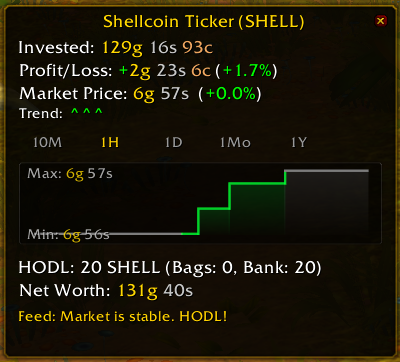
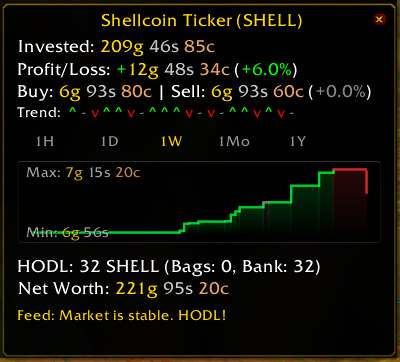
fix: scale graph timeline to latest sync time in live mode to avoid empty space
refactor: graph rendering with new candle tooltip assets.

diff --git a/README.md b/README.md
@@ -8,9 +8,13 @@
 | :---: | :---: |
 | ![HUD Display](Screenshots/HUD.png) | ![Options Window](Screenshots/Options.png) |
 
-| Graph Price Tooltip | Trend Sparkline History | HODL Breakdown |
-| :---: | :---: | :---: |
-| ![Graph Price Tooltip](Screenshots/Graph_Tooltip.png) | ![Trend Sparkline History](Screenshots/Trend_Tooltip.png) | ![HODL Breakdown](Screenshots/HODL_Tooltip.png) |
+| Area Graph Tooltip | Candle Graph Tooltip |
+| :---: | :---: |
+| ![Area Graph Tooltip](Screenshots/Graph_Tooltip.png) | ![Candle Graph Tooltip](Screenshots/Candle_Tooltip.png) |
+
+| Trend Sparkline History | HODL Breakdown |
+| :---: | :---: |
+| ![Trend Sparkline History](Screenshots/Trend_Tooltip.png) | ![HODL Breakdown](Screenshots/HODL_Tooltip.png) |
 
 ---
 
@@ -39,7 +43,7 @@
   - *Goblins of Gadgetzan Integration* (Price pumps)
   - *Mysterious Murloc Whales* (Price surges)
 - **Live Server Sync**: Automatically disables mock simulation and locks onto live server broadcast prices whenever chat patterns matching `SHELLCOINTICKER BUY/SELL PRICE` or `SHELLCOINTICKER PRICE HAS` gold/silver/copper formats are spotted in public or private channels.
-- **Silent Auto Price Sync**: Periodically runs the `.shellcoin` server command internally to fetch live prices (configurable to **Off**, **1M**, **10M**, or **1H**). Both the outgoing command and incoming server replies are silently filtered from the player's chat log.
+- **Silent Auto Price Sync**: Automatically updates prices in the background (**Off**, **10M**, **30M**, or **1H**) without showing commands in chat. It also syncs automatically on login or UI reload if the price is outdated.
 
 ### 5. Premium Two-Column Options UI
 - **Left Column**: General settings (Toggle HUD visibility, Toggle Minimap button, Graph style Area/Candle selector, HUD scale slider, and **Auto Sync** interval selection).